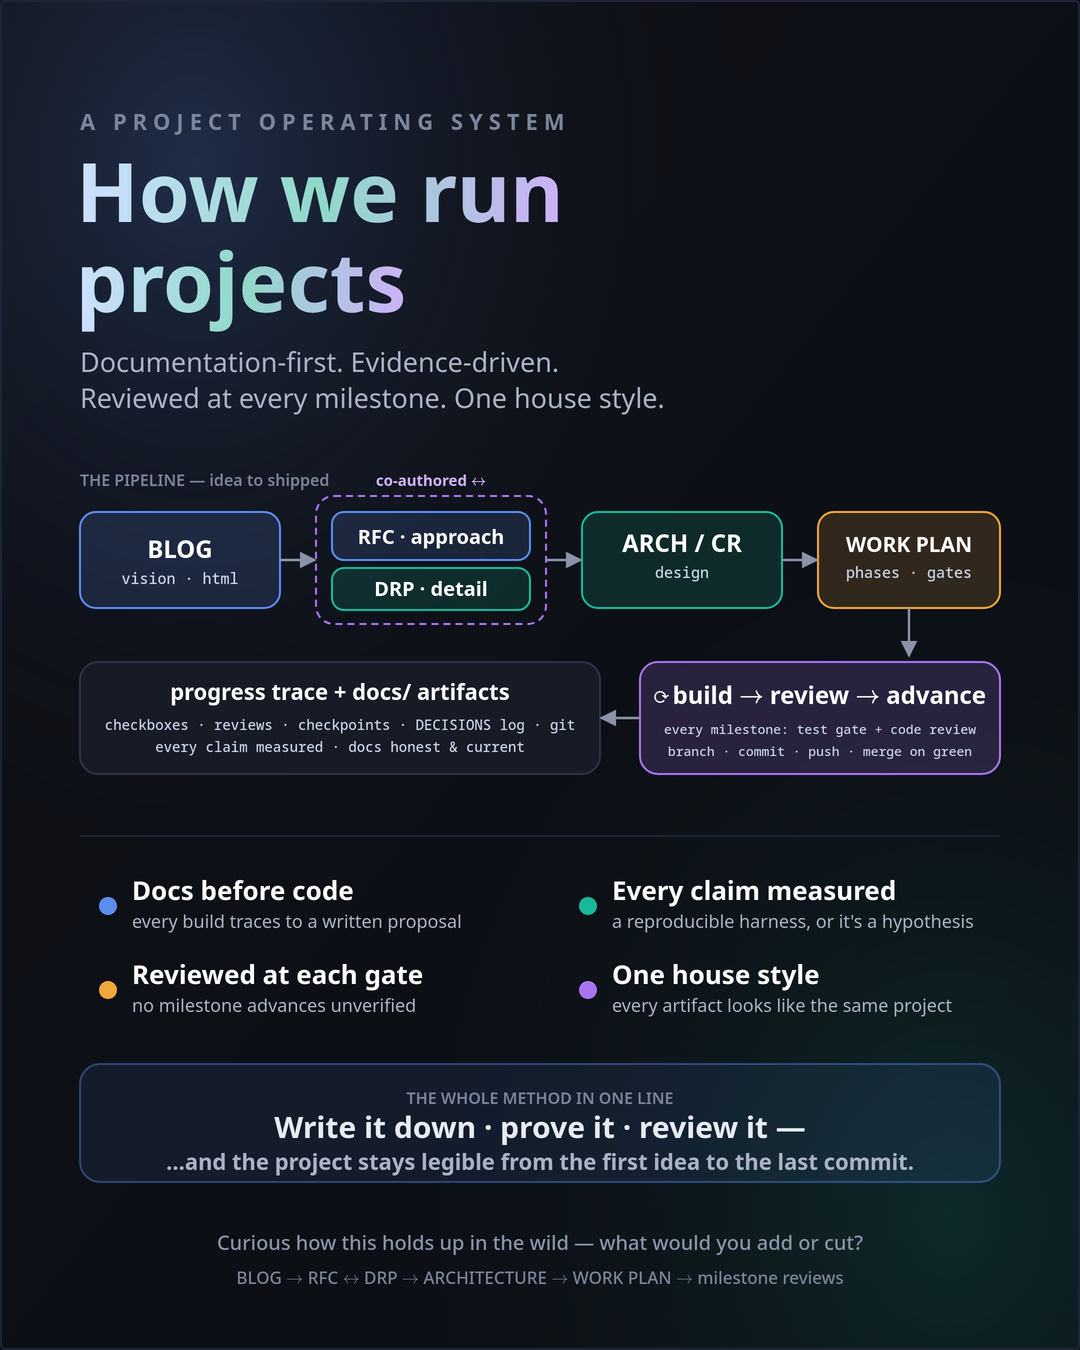
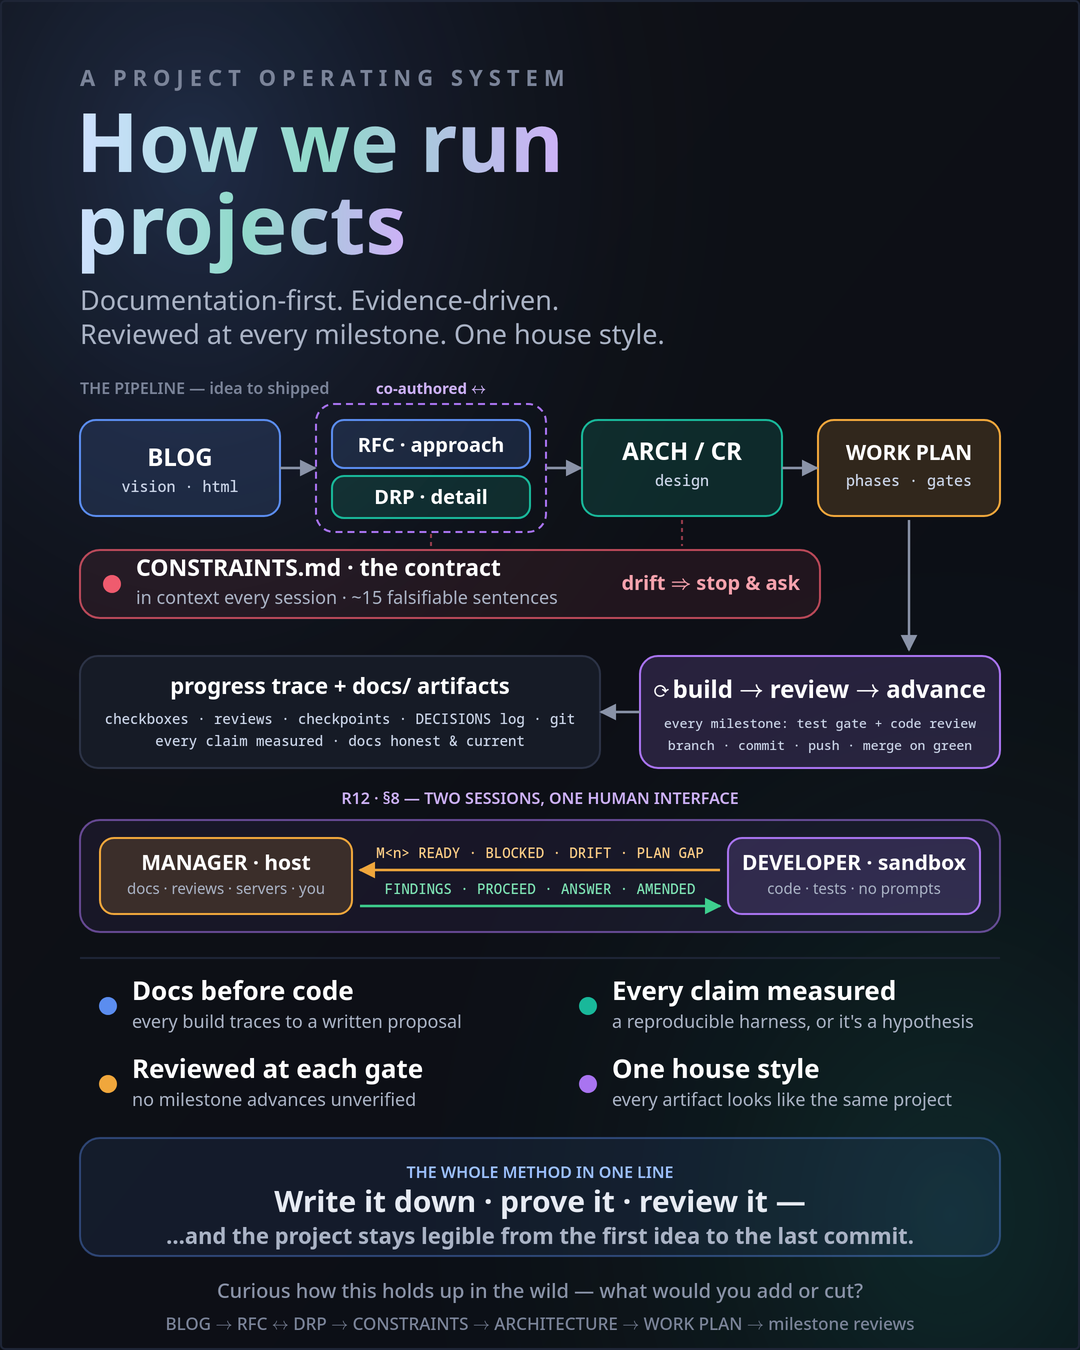
feat(poster): the R11 contract rail + the R12/§8 two-session rail
Lands two things. The contract rail was written when R11 went in but never
committed — it sat in the working tree — so this carries it and adds the
two-session rail on top.

Both are rails rather than pipeline stages, and that's the point of the shape:
neither is a step you pass through. CONSTRAINTS.md is born from the agreed
RFC+DRP and then sits under everything downstream; the manager/developer split
isn't a stage either, it's the mode the whole pipeline is run in. Giving R12 the
same visual treatment R11 got says that without a caption.

The §8 rail: MANAGER · host on the left (docs · reviews · servers · you),
DEVELOPER · sandbox on the right (code · tests · no prompts), the four signals
running right-to-left in amber and the replies left-to-right in green. Cap reads
"R12 · §8 — TWO SESSIONS, ONE HUMAN INTERFACE", which is the claim the picture
then demonstrates: every arrow that reaches a person passes through the manager.

Layout: the pipeline block moves up 56px as one unit (a wrapper transform, so
the coordinates inside stay as authored) to open the lane, and the header is
tightened to keep air above THE PIPELINE — 82px leading on the h1 is safe
because "How we run" carries no descenders. Everything below the new rail
shifts down by 74. Signal lines are 14px mono: the 39-char line is 328px inside
a 376px lane, and 15px would have overflowed it — the same failure the 13px
comment in the milestone box already records.
[…]

Changed region(s): [[0.0611, 0.0311, 0.9472, 0.9956], [0.0611, 0.84, 0.0917, 0.9022], [0.1528, 0.9644, 0.1833, 0.9956]]

diff --git a/docs/POSTER_METHODOLOGY.html b/docs/POSTER_METHODOLOGY.html
@@ -27,6 +27,9 @@
       <stop offset="0" stop-color="#cfe0ff"/><stop offset=".5" stop-color="#8fd9c9"/><stop offset="1" stop-color="#cdb1f7"/>
     </linearGradient>
     <marker id="pa" viewBox="0 0 10 10" refX="9" refY="5" markerWidth="7" markerHeight="7" orient="auto-start-reverse"><path d="M0 0L10 5L0 10z" fill="#8a93a8"/></marker>
+    <!-- coloured heads for the §8 rail: signals go up-stream amber, replies come back green -->
+    <marker id="pl" viewBox="0 0 10 10" refX="9" refY="5" markerWidth="7" markerHeight="7" orient="auto-start-reverse"><path d="M0 0L10 5L0 10z" fill="#f0a73c"/></marker>
+    <marker id="pg" viewBox="0 0 10 10" refX="9" refY="5" markerWidth="7" markerHeight="7" orient="auto-start-reverse"><path d="M0 0L10 5L0 10z" fill="#3ecf8e"/></marker>
     <style>
       .eyebrow{fill:#7b8499;font:700 22px "Segoe UI",sans-serif;letter-spacing:6px}
       .h1{font:800 82px "Segoe UI",sans-serif;fill:url(#title)}
@@ -48,73 +51,114 @@
   <rect width="1080" height="1350" fill="url(#glowB)"/>
   <rect x="1" y="1" width="1078" height="1348" fill="none" stroke="#1e2536" stroke-width="2" rx="4"/>
 
-  <!-- header -->
-  <text class="eyebrow" x="80" y="130">A PROJECT OPERATING SYSTEM</text>
-  <text class="h1" x="76" y="222">How we run</text>
-  <text class="h1" x="76" y="312">projects</text>
-  <text class="lede" x="80" y="372">Documentation-first. Evidence-driven.</text>
-  <text class="lede" x="80" y="408">Reviewed at every milestone. One house style.</text>
+  <!-- header — pulled up 36px for the R11 contract rail, then tightened again for the §8 rail.
+       82px leading on the h1 is safe: "How we run" carries no descenders. -->
+  <text class="eyebrow" x="80" y="86">A PROJECT OPERATING SYSTEM</text>
+  <text class="h1" x="76" y="172">How we run</text>
+  <text class="h1" x="76" y="254">projects</text>
+  <text class="lede" x="80" y="310">Documentation-first. Evidence-driven.</text>
+  <text class="lede" x="80" y="344">Reviewed at every milestone. One house style.</text>
 
+  <!-- Pipeline block, shifted up 56px as one unit so the two-session rail (R12/§8) gets a
+       full lane above the principles. Coordinates inside stay as authored. -->
+  <g transform="translate(0,-56)">
   <!-- pipeline -->
-  <text class="cap" x="540" y="486" style="text-anchor:start" transform="translate(-460,0)">THE PIPELINE — idea to shipped</text>
+  <text class="cap" x="540" y="450" style="text-anchor:start" transform="translate(-460,0)">THE PIPELINE — idea to shipped</text>
   <!-- row 1: BLOG -> [RFC|DRP] -> ARCH -->
   <g>
-    <rect x="80" y="512" width="200" height="96" rx="16" fill="rgba(91,141,239,.16)" stroke="#5b8def" stroke-width="2"/>
-    <text class="stage-t" x="180" y="558">BLOG</text><text class="stage-s" x="180" y="584">vision · html</text>
+    <rect x="80" y="476" width="200" height="96" rx="16" fill="rgba(91,141,239,.16)" stroke="#5b8def" stroke-width="2"/>
+    <text class="stage-t" x="180" y="522">BLOG</text><text class="stage-s" x="180" y="548">vision · html</text>
 
     <!-- coupled RFC/DRP pair -->
-    <rect x="316" y="496" width="230" height="128" rx="18" fill="none" stroke="#a974f0" stroke-width="2" stroke-dasharray="7 5"/>
-    <text class="badge" x="431" y="486">co-authored ↔</text>
-    <rect x="332" y="512" width="198" height="48" rx="12" fill="rgba(91,141,239,.16)" stroke="#5b8def" stroke-width="2"/>
-    <text class="stage-t" x="431" y="544" style="font-size:20px">RFC · approach</text>
-    <rect x="332" y="568" width="198" height="42" rx="12" fill="rgba(25,184,154,.16)" stroke="#19b89a" stroke-width="2"/>
-    <text class="stage-t" x="431" y="596" style="font-size:20px">DRP · detail</text>
+    <rect x="316" y="460" width="230" height="128" rx="18" fill="none" stroke="#a974f0" stroke-width="2" stroke-dasharray="7 5"/>
+    <text class="badge" x="431" y="450">co-authored ↔</text>
+    <rect x="332" y="476" width="198" height="48" rx="12" fill="rgba(91,141,239,.16)" stroke="#5b8def" stroke-width="2"/>
+    <text class="stage-t" x="431" y="508" style="font-size:20px">RFC · approach</text>
+    <rect x="332" y="532" width="198" height="42" rx="12" fill="rgba(25,184,154,.16)" stroke="#19b89a" stroke-width="2"/>
+    <text class="stage-t" x="431" y="560" style="font-size:20px">DRP · detail</text>
 
-    <rect x="582" y="512" width="200" height="96" rx="16" fill="rgba(25,184,154,.16)" stroke="#19b89a" stroke-width="2"/>
-    <text class="stage-t" x="682" y="552">ARCH / CR</text><text class="stage-s" x="682" y="578">design</text>
+    <rect x="582" y="476" width="200" height="96" rx="16" fill="rgba(25,184,154,.16)" stroke="#19b89a" stroke-width="2"/>
+    <text class="stage-t" x="682" y="516">ARCH / CR</text><text class="stage-s" x="682" y="542">design</text>
 
-    <rect x="818" y="512" width="182" height="96" rx="16" fill="rgba(240,167,60,.16)" stroke="#f0a73c" stroke-width="2"/>
-    <text class="stage-t" x="909" y="552" style="font-size:21px">WORK PLAN</text><text class="stage-s" x="909" y="578">phases · gates</text>
+    <rect x="818" y="476" width="182" height="96" rx="16" fill="rgba(240,167,60,.16)" stroke="#f0a73c" stroke-width="2"/>
+    <text class="stage-t" x="909" y="516" style="font-size:21px">WORK PLAN</text><text class="stage-s" x="909" y="542">phases · gates</text>
 
-    <line x1="280" y1="560" x2="315" y2="560" stroke="#8a93a8" stroke-width="2.4" marker-end="url(#pa)"/>
-    <line x1="546" y1="560" x2="581" y2="560" stroke="#8a93a8" stroke-width="2.4" marker-end="url(#pa)"/>
-    <line x1="782" y1="560" x2="817" y2="560" stroke="#8a93a8" stroke-width="2.4" marker-end="url(#pa)"/>
+    <line x1="280" y1="524" x2="315" y2="524" stroke="#8a93a8" stroke-width="2.4" marker-end="url(#pa)"/>
+    <line x1="546" y1="524" x2="581" y2="524" stroke="#8a93a8" stroke-width="2.4" marker-end="url(#pa)"/>
+    <line x1="782" y1="524" x2="817" y2="524" stroke="#8a93a8" stroke-width="2.4" marker-end="url(#pa)"/>
+  </g>
+  <!-- the contract (R11) — a rail under the pipeline, not a stage in it: born from the
+       agreed RFC+DRP, then checked against every top-level decision downstream. Stops at
+       x=820 so the WORK PLAN → milestone-loop arrow has a clear lane at x=909. -->
+  <g>
+    <line x1="431" y1="590" x2="431" y2="602" stroke="#ef5b6e" stroke-width="2" stroke-dasharray="4 4" opacity=".6"/>
+    <line x1="682" y1="576" x2="682" y2="602" stroke="#ef5b6e" stroke-width="2" stroke-dasharray="4 4" opacity=".6"/>
+    <rect x="80" y="606" width="740" height="68" rx="20" fill="rgba(239,91,110,.09)" stroke="rgba(239,91,110,.75)" stroke-width="2"/>
+    <circle cx="112" cy="640" r="9" fill="#ef5b6e"/>
+    <text class="chip-t" x="136" y="632" style="font-size:23px">CONSTRAINTS.md · the contract</text>
+    <text class="chip-s" x="136" y="660">in context every session · ~15 falsifiable sentences</text>
+    <text x="800" y="646" style="fill:#f6a2ad;font:800 20px 'Segoe UI',sans-serif;text-anchor:end">drift ⇒ stop &amp; ask</text>
   </g>
   <!-- row 2: milestone loop + outputs -->
   <g>
-    <line x1="909" y1="608" x2="909" y2="656" stroke="#8a93a8" stroke-width="2.4" marker-end="url(#pa)"/>
-    <rect x="640" y="662" width="360" height="112" rx="18" fill="rgba(169,116,240,.18)" stroke="#a974f0" stroke-width="2"/>
-    <text class="stage-t" x="820" y="704">⟳  build → review → advance</text>
+    <line x1="909" y1="576" x2="909" y2="706" stroke="#8a93a8" stroke-width="2.4" marker-end="url(#pa)"/>
+    <rect x="640" y="712" width="360" height="112" rx="18" fill="rgba(169,116,240,.18)" stroke="#a974f0" stroke-width="2"/>
+    <text class="stage-t" x="820" y="754">⟳  build → review → advance</text>
     <!-- 13px: at 15px these 39–40ch mono lines are wider than the 360px box and overflow it. -->
-    <text class="stage-s" x="820" y="734" style="font-size:13px">every milestone: test gate + code review</text>
-    <text class="stage-s" x="820" y="756" style="font-size:13px">branch · commit · push · merge on green</text>
+    <text class="stage-s" x="820" y="784" style="font-size:13px">every milestone: test gate + code review</text>
+    <text class="stage-s" x="820" y="806" style="font-size:13px">branch · commit · push · merge on green</text>
 
-    <rect x="80" y="662" width="520" height="112" rx="18" fill="#161b26" stroke="#2c3346" stroke-width="2"/>
-    <text class="stage-t" x="340" y="700" style="font-size:22px">progress trace + docs/ artifacts</text>
-    <text class="stage-s" x="340" y="730" style="font-size:14px">checkboxes · reviews · checkpoints · DECISIONS log · git</text>
-    <text class="stage-s" x="340" y="752" style="font-size:14px">every claim measured · docs honest &amp; current</text>
-    <line x1="640" y1="718" x2="601" y2="718" stroke="#8a93a8" stroke-width="2.4" marker-end="url(#pa)"/>
+    <rect x="80" y="712" width="520" height="112" rx="18" fill="#161b26" stroke="#2c3346" stroke-width="2"/>
+    <text class="stage-t" x="340" y="750" style="font-size:22px">progress trace + docs/ artifacts</text>
+    <text class="stage-s" x="340" y="780" style="font-size:14px">checkboxes · reviews · checkpoints · DECISIONS log · git</text>
+    <text class="stage-s" x="340" y="802" style="font-size:14px">every claim measured · docs honest &amp; current</text>
+    <line x1="640" y1="768" x2="601" y2="768" stroke="#8a93a8" stroke-width="2.4" marker-end="url(#pa)"/>
+  </g>
+  </g>
+
+  <!-- the two-session split (R12 · §8) — a rail, like the contract's: not a stage in the
+       pipeline but the mode the pipeline is run in. Manager and developer share one repo;
+       the four signals are the only reasons the developer stops, and every arrow that
+       reaches a person passes through the manager. -->
+  <!-- style=, not fill=: .cap sets fill in CSS, which beats a presentation attribute. -->
+  <text class="cap" x="540" y="804" style="fill:#cdb1f7">R12 · §8 — TWO SESSIONS, ONE HUMAN INTERFACE</text>
+  <g>
+    <rect x="80" y="820" width="920" height="112" rx="20" fill="rgba(169,116,240,.08)" stroke="rgba(169,116,240,.55)" stroke-width="2"/>
+
+    <rect x="100" y="838" width="252" height="76" rx="14" fill="rgba(240,167,60,.16)" stroke="#f0a73c" stroke-width="2"/>
+    <text class="chip-t" x="226" y="870" style="font-size:21px;text-anchor:middle">MANAGER · host</text>
+    <text class="chip-s" x="226" y="894" style="font-size:15px;text-anchor:middle">docs · reviews · servers · you</text>
+
+    <rect x="728" y="838" width="252" height="76" rx="14" fill="rgba(169,116,240,.18)" stroke="#a974f0" stroke-width="2"/>
+    <text class="chip-t" x="854" y="870" style="font-size:21px;text-anchor:middle">DEVELOPER · sandbox</text>
+    <text class="chip-s" x="854" y="894" style="font-size:15px;text-anchor:middle">code · tests · no prompts</text>
+
+    <!-- 14px mono: the 39-char signal line is 328px inside a 376px lane; 15px would overflow. -->
+    <text class="stage-s" x="540" y="858" style="font-size:14px;fill:#ffce86">M&lt;n&gt; READY · BLOCKED · DRIFT · PLAN GAP</text>
+    <line x1="720" y1="870" x2="360" y2="870" stroke="#f0a73c" stroke-width="2.4" marker-end="url(#pl)"/>
+    <text class="stage-s" x="540" y="894" style="font-size:14px;fill:#7ee3b4">FINDINGS · PROCEED · ANSWER · AMENDED</text>
+    <line x1="360" y1="906" x2="720" y2="906" stroke="#3ecf8e" stroke-width="2.4" marker-end="url(#pg)"/>
   </g>
 
   <!-- principles -->
-  <line x1="80" y1="836" x2="1000" y2="836" stroke="#1e2536" stroke-width="2"/>
+  <line x1="80" y1="958" x2="1000" y2="958" stroke="#1e2536" stroke-width="2"/>
   <g transform="translate(0,0)">
-    <circle cx="108" cy="906" r="9" fill="#5b8def"/><text class="chip-t" x="132" y="900">Docs before code</text><text class="chip-s" x="132" y="928">every build traces to a written proposal</text>
-    <circle cx="588" cy="906" r="9" fill="#19b89a"/><text class="chip-t" x="612" y="900">Every claim measured</text><text class="chip-s" x="612" y="928">a reproducible harness, or it's a hypothesis</text>
-    <circle cx="108" cy="990" r="9" fill="#f0a73c"/><text class="chip-t" x="132" y="984">Reviewed at each gate</text><text class="chip-s" x="132" y="1012">no milestone advances unverified</text>
-    <circle cx="588" cy="990" r="9" fill="#a974f0"/><text class="chip-t" x="612" y="984">One house style</text><text class="chip-s" x="612" y="1012">every artifact looks like the same project</text>
+    <circle cx="108" cy="1006" r="9" fill="#5b8def"/><text class="chip-t" x="132" y="1000">Docs before code</text><text class="chip-s" x="132" y="1028">every build traces to a written proposal</text>
+    <circle cx="588" cy="1006" r="9" fill="#19b89a"/><text class="chip-t" x="612" y="1000">Every claim measured</text><text class="chip-s" x="612" y="1028">a reproducible harness, or it's a hypothesis</text>
+    <circle cx="108" cy="1084" r="9" fill="#f0a73c"/><text class="chip-t" x="132" y="1078">Reviewed at each gate</text><text class="chip-s" x="132" y="1106">no milestone advances unverified</text>
+    <circle cx="588" cy="1084" r="9" fill="#a974f0"/><text class="chip-t" x="612" y="1078">One house style</text><text class="chip-s" x="612" y="1106">every artifact looks like the same project</text>
   </g>
 
   <!-- rule of thumb band -->
-  <rect x="80" y="1064" width="920" height="118" rx="20" fill="rgba(91,141,239,.10)" stroke="rgba(91,141,239,.4)" stroke-width="2"/>
-  <text class="cap" x="540" y="1104" fill="#9cc0ff">THE WHOLE METHOD IN ONE LINE</text>
+  <rect x="80" y="1138" width="920" height="118" rx="20" fill="rgba(91,141,239,.10)" stroke="rgba(91,141,239,.4)" stroke-width="2"/>
+  <text class="cap" x="540" y="1178" style="fill:#9cc0ff">THE WHOLE METHOD IN ONE LINE</text>
   <!-- 32px between baselines: at 20px the 30px line's descenders collided with line 2's ascenders. -->
-  <text class="rule" x="540" y="1138">Write it down · prove it · review it —</text>
-  <text class="rule" x="540" y="1170" style="font-size:22px;fill:#aab3c5">…and the project stays legible from the first idea to the last commit.</text>
+  <text class="rule" x="540" y="1212">Write it down · prove it · review it —</text>
+  <text class="rule" x="540" y="1244" style="font-size:22px;fill:#aab3c5">…and the project stays legible from the first idea to the last commit.</text>
 
   <!-- footer / call to action -->
-  <text class="foot" x="540" y="1250">Curious how this holds up in the wild — what would you add or cut?</text>
-  <text class="foot" x="540" y="1284" style="fill:#7b8499;font-size:17px">BLOG → RFC ↔ DRP → ARCHITECTURE → WORK PLAN → milestone reviews</text>
+  <text class="foot" x="540" y="1298">Curious how this holds up in the wild — what would you add or cut?</text>
+  <text class="foot" x="540" y="1330" style="fill:#7b8499;font-size:17px">BLOG → RFC ↔ DRP → CONSTRAINTS → ARCHITECTURE → WORK PLAN → milestone reviews</text>
 </svg>
 </div>
 <p class="hint">Poster is 1080×1350 (LinkedIn 4:5). To export a PNG: screenshot at 2×, or right-click the image → “Save image”. Edit copy directly in the SVG.</p>
